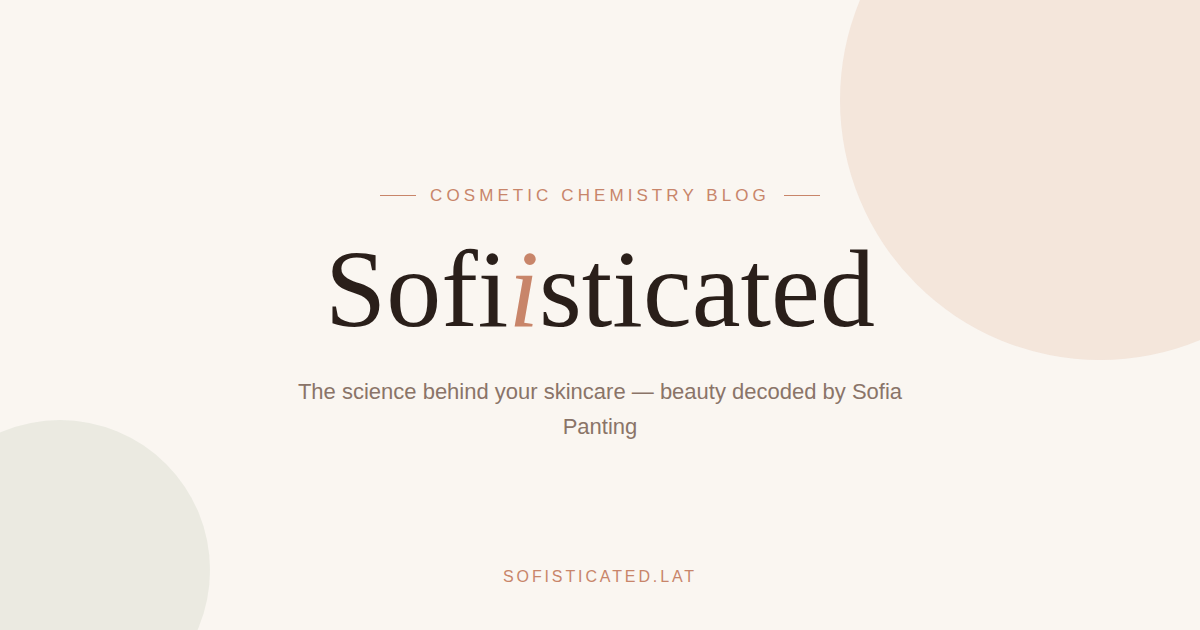
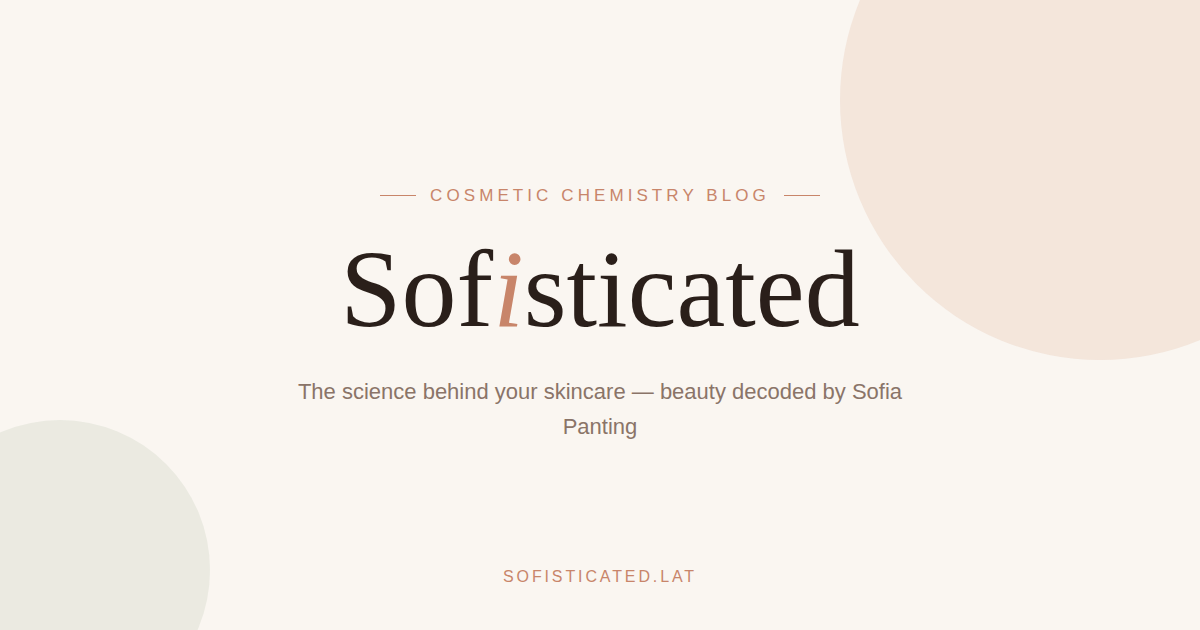
Fix mobile post-nav overlap, rename brand to Sofisticated, polish design and admin (#10)
- The prev/next post navigation used a <nav> element, which inherited
  the top bar's element-selector styles (position:sticky, height:62px),
  so its cards overflowed and the newsletter section rendered on top of
  them — badly broken on phones. Now a div with role=navigation.
- Brand corrected to "Sofisticated" (one i) everywhere: nav/footer
  wordmarks, site title, ticker, bios, README, email template, web
  manifest, admin title, and a regenerated social-share image. The rose
  italic accent now sits on the single "i".
- Admin (/admin) fixes: site title is now editable, the Mailchimp field
  hint no longer claims the subscribe button is dead while empty
  (subscriptions land in Netlify Forms), and the admin tab shows the
  site favicon.
- Design polish: editorial drop cap on the first paragraph of posts,
  emoji overlays hidden when a post card has a real photo, card hover
  shadow lift, brand-colored text selection, visible focus outlines,
  balanced headline wrapping, anchor scroll offset for the sticky nav,
  font smoothing, and a global img max-width guard.

Claude-Session: https://claude.ai/code/session_01MwGyM16pdQyhdXgJRVenVk

Changed region(s): [[0.2775, 0.3921, 0.74, 0.5429]]

diff --git a/email-templates/new-post-notification.html b/email-templates/new-post-notification.html
@@ -1,5 +1,5 @@
 <!--
-  Sofiisticated — "New post" notification email
+  Sofisticated — "New post" notification email
   ================================================
   Use this as a Mailchimp "Code your own" RSS-Driven Campaign template.
 
@@ -32,7 +32,7 @@
             <table role="presentation" width="100%" cellpadding="0" cellspacing="0">
               <tr>
                 <td style="font-family:Georgia,'Times New Roman',serif;font-size:22px;color:#2A1F1A;">
-                  Sofi<em style="color:#C8856A;font-style:italic;">i</em>sticated
+                  Sof<em style="color:#C8856A;font-style:italic;">i</em>sticated
                 </td>
                 <td align="right" style="font-size:10px;letter-spacing:.14em;text-transform:uppercase;color:#8A7468;">
                   New post
@@ -49,7 +49,7 @@
               Hi *|FNAME|*,
             </p>
             <p style="margin:8px 0 0;font-size:14px;line-height:1.7;color:#2A1F1A;">
-              Sofia just published something new on Sofiisticated — here's the science, decoded:
+              Sofia just published something new on Sofisticated — here's the science, decoded:
             </p>
           </td>
         </tr>

diff --git a/src/admin/index.html b/src/admin/index.html
@@ -3,8 +3,8 @@
 <head>
   <meta charset="utf-8" />
   <meta name="viewport" content="width=device-width, initial-scale=1" />
-  <title>Editar Sofiisticated</title>
-  <link rel="icon" href="data:,">
+  <title>Editar Sofisticated</title>
+  <link rel="icon" href="/favicon.ico">
 </head>
 <body>
   <script src="https://unpkg.com/decap-cms@^3.0.0/dist/decap-cms.js"></script>

diff --git a/README.md b/README.md
@@ -1,4 +1,4 @@
-# Sofiisticated
+# Sofisticated
 
 Blog de química cosmética hecho con [Eleventy](https://www.11ty.dev/) (genera el sitio) y [Decap CMS](https://decapcms.org/) (panel de edición tipo "Word/Canva" en `/admin`).
 
@@ -89,7 +89,7 @@ Esto se configura **una sola vez**. Después de eso, cada vez que le des **Publi
 
 ### 4.1 Crear cuenta en Mailchimp (gratis)
 1. Entra a [mailchimp.com](https://mailchimp.com) y crea una cuenta gratis (el plan gratis alcanza hasta 500 contactos, de sobra para empezar).
-2. Cuando te pida crear una **Audience** (audiencia), ponle un nombre como "Sofiisticated — suscriptores" y llena los datos básicos que pida (de dónde escribes los correos, etc.).
+2. Cuando te pida crear una **Audience** (audiencia), ponle un nombre como "Sofisticated — suscriptores" y llena los datos básicos que pida (de dónde escribes los correos, etc.).
 
 ### 4.2 Crear el formulario de suscripción y conectarlo al sitio
 1. En Mailchimp, ve a **Audience → Signup forms → Embedded forms**.